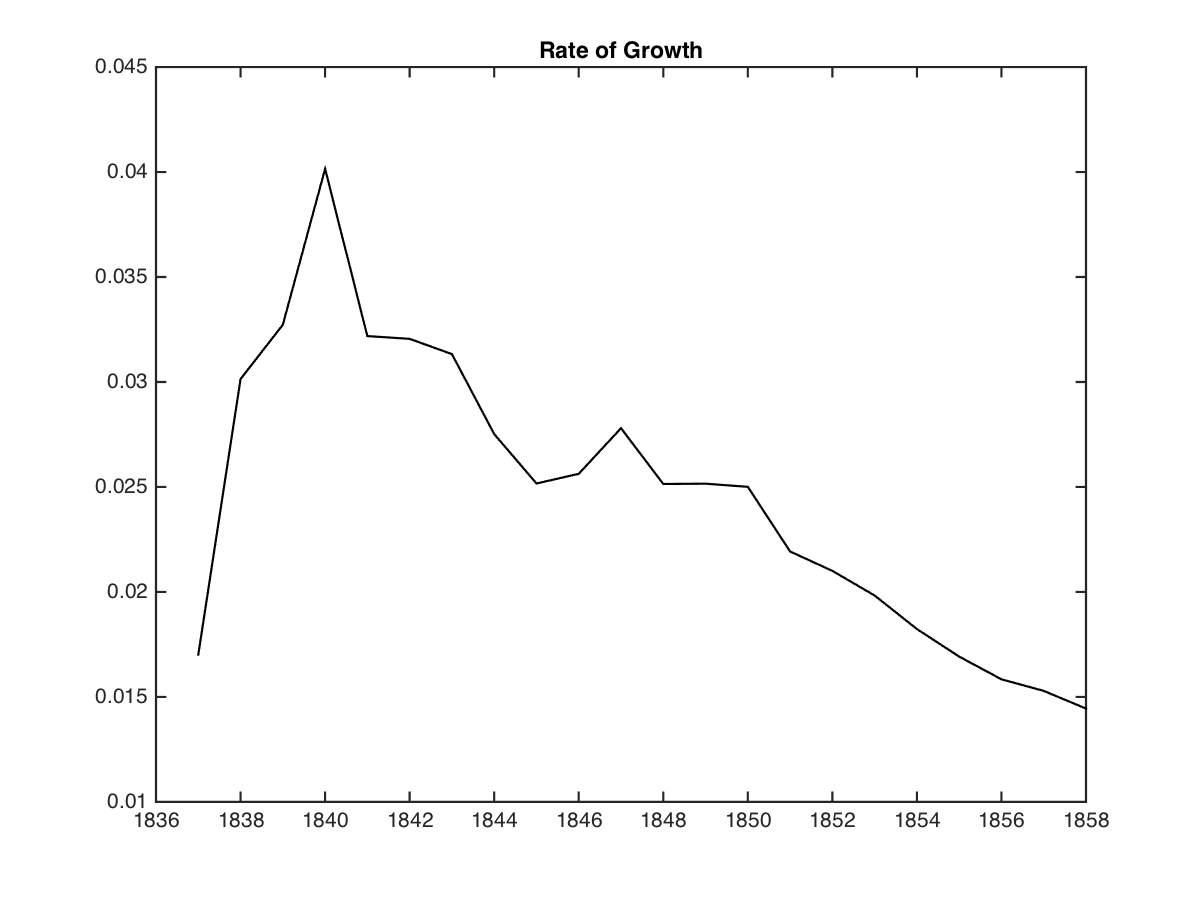
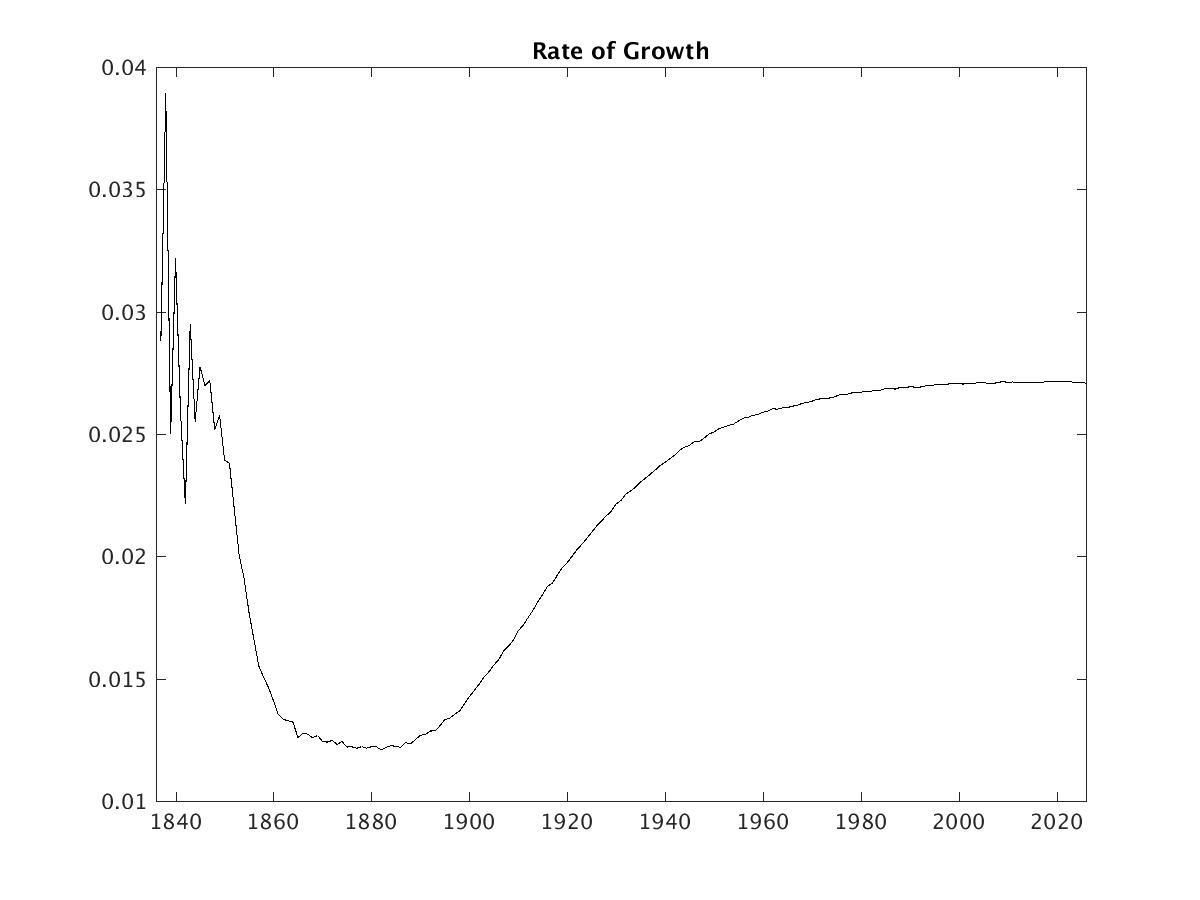
need to fix bug on consolidated code

diff --git a/simulations/consolidated/simulate_model.m b/simulations/consolidated/simulate_model.m
@@ -200,7 +200,8 @@ function outputs = simulate_model(params, nrofperiods, beg_year, beg_inv, summar
         policy_cost(t) = sum(subsidy_cost*mean(quality));
         
         consumption(t) = GDP(t) - inventor_cost(t) - firm_cost(t) - policy_cost(t);
-        discounted_utility(t) = beta^t * consumption(t)^(1-epsilon) / (1-epsilon) ;
+        %discounted_utility(t) = beta^t * (consumption(t)^(1-epsilon) - 1)/ (1-epsilon) ;
+        discounted_utility(t) = beta^t * log(consumption(t)) ;
 
         % compute total number of patents by category
         nrofnewtech = sum(patent_type(:,1));
@@ -216,7 +217,7 @@ function outputs = simulate_model(params, nrofperiods, beg_year, beg_inv, summar
             patmat(t,2)= nrofnewtech/nrofpatents(t);    % fraction of new tech
             patmat(t,3)= nrofnewcomb/nrofpatents(t);    % fraction of new combo
             patmat(t,4)= nrofreuse/nrofpatents(t);      % fraction of reuse
-        elseif nrofpatents(t) == 0 & t > 1 
+        elseif nrofpatents(t) == 0 && t > 1 
             patmat(t,:) = patmat(t-1,:);                % If all product lines die, no patents are created
         else
             patmat(t,:) = [year, 1, 0, 0];

diff --git a/simulations/welfare_counterfactuals/optimal_subsidy_ls.m b/simulations/welfare_counterfactuals/optimal_subsidy_ls.m
@@ -28,8 +28,8 @@ g1 = 0.066; % initial growth rate of patent numbers
 g2 = 0.02; % final growth rate of patents
 
 % define parameters for iterations
-Tmax = 50; % total number of periods
-T_subs = 30; % start subsidy period in 2016
+Tmax = 230; % total number of periods
+T_subs = 180; % start subsidy period in 2016
 seed = 10;
 params = v2struct(etaH, etaM, etaL, ttau, phi, llambda, kkappa, xxi, zeta, ggamma, epsilon, rr, nu, nrofinv, g1, g2);
 
@@ -41,8 +41,8 @@ Welfare_plain = result_plain.Welfare;
 Welfare_log_plain = result_plain.Welfare_log;
 
 %% Run simulation with subsidy
-%subsidy_vals = linspace(0,etaH,5);
-subsidy_vals = linspace(0,.3,10);
+subsidy_vals = linspace(0,etaH,5);
+%subsidy_vals = linspace(0,.3,10);
 subs_len = length(subsidy_vals);
 
 % new technologies
